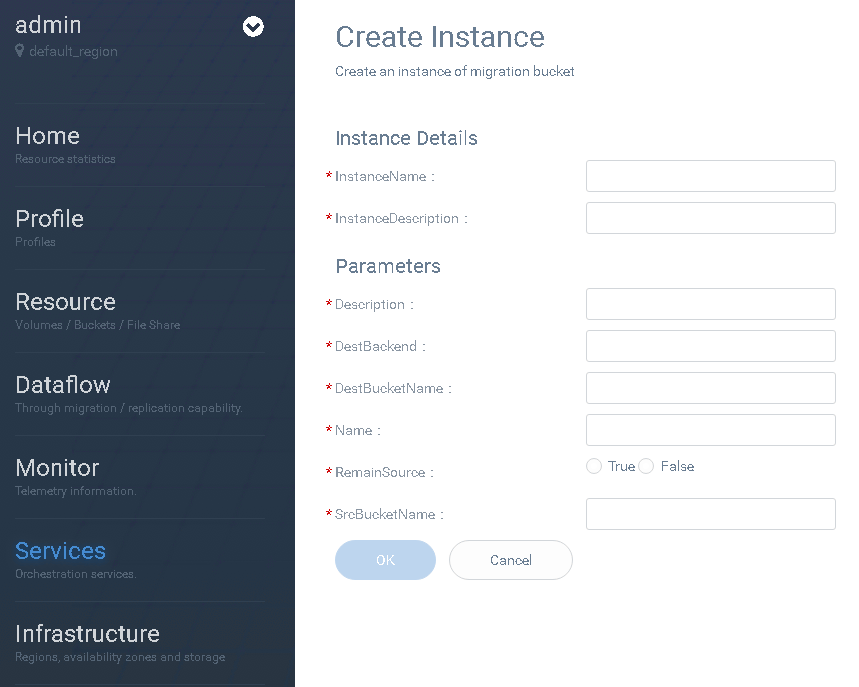
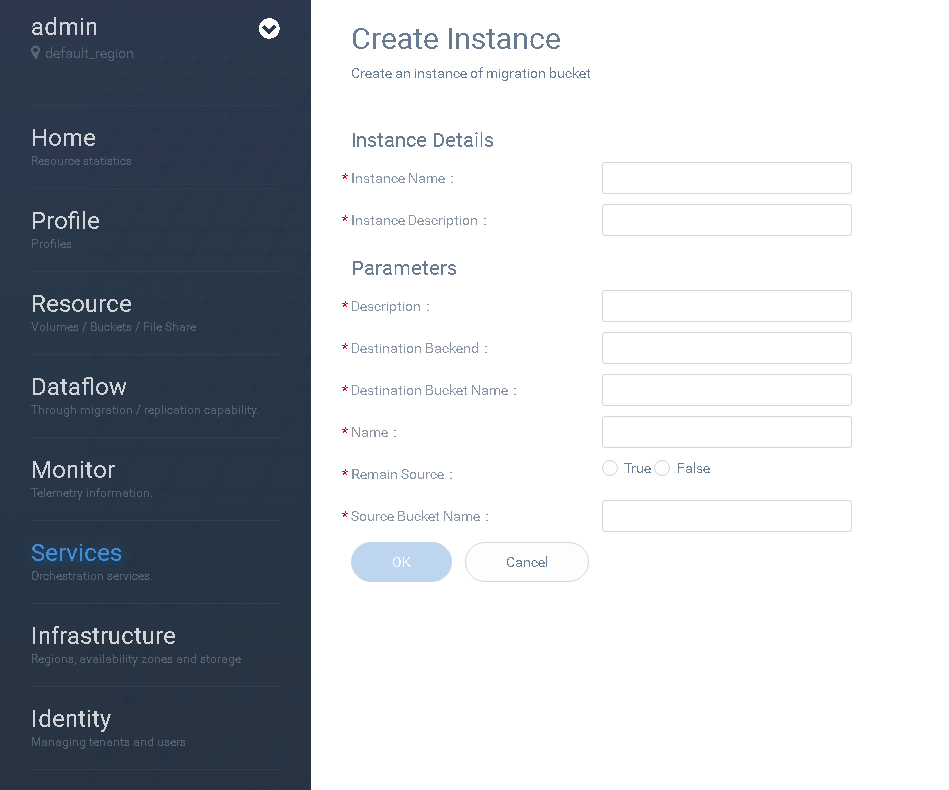
Adding latest screenshot

diff --git a/readthedocs/starterguides/userguides/Orchestration_UserGuide.md b/readthedocs/starterguides/userguides/Orchestration_UserGuide.md
@@ -35,6 +35,8 @@ OpenSDS installation will provide the services available for orchestrating the t
 
 ### Volume Provisioning
 To create a volume and attach it to the required Host, user can create an instance of "volume provision" Service under Provisioning.
+
+####  Creating an instance
     a) Click on 'Create' button to provide required inputs
     b) In 'Instance Details', provide the Name and Description of this service instance
     c) Provide the 'Parameters' required for the volume provisioning
@@ -51,7 +53,7 @@ To create a volume and attach it to the required Host, user can create an instan
 ### Bucket Migration
 To move objects from bucket of one cloud provider to the other, user can create an instance of "migration bucket" Service under Migration.
 
-#### Pre-requisites:
+#### Prerequisites:
     a) All the required cloud backends are added into OpenSDS
     b) Required buckets are created in the respective cloud backends. Check this under 'Resource->Buckets'
 
